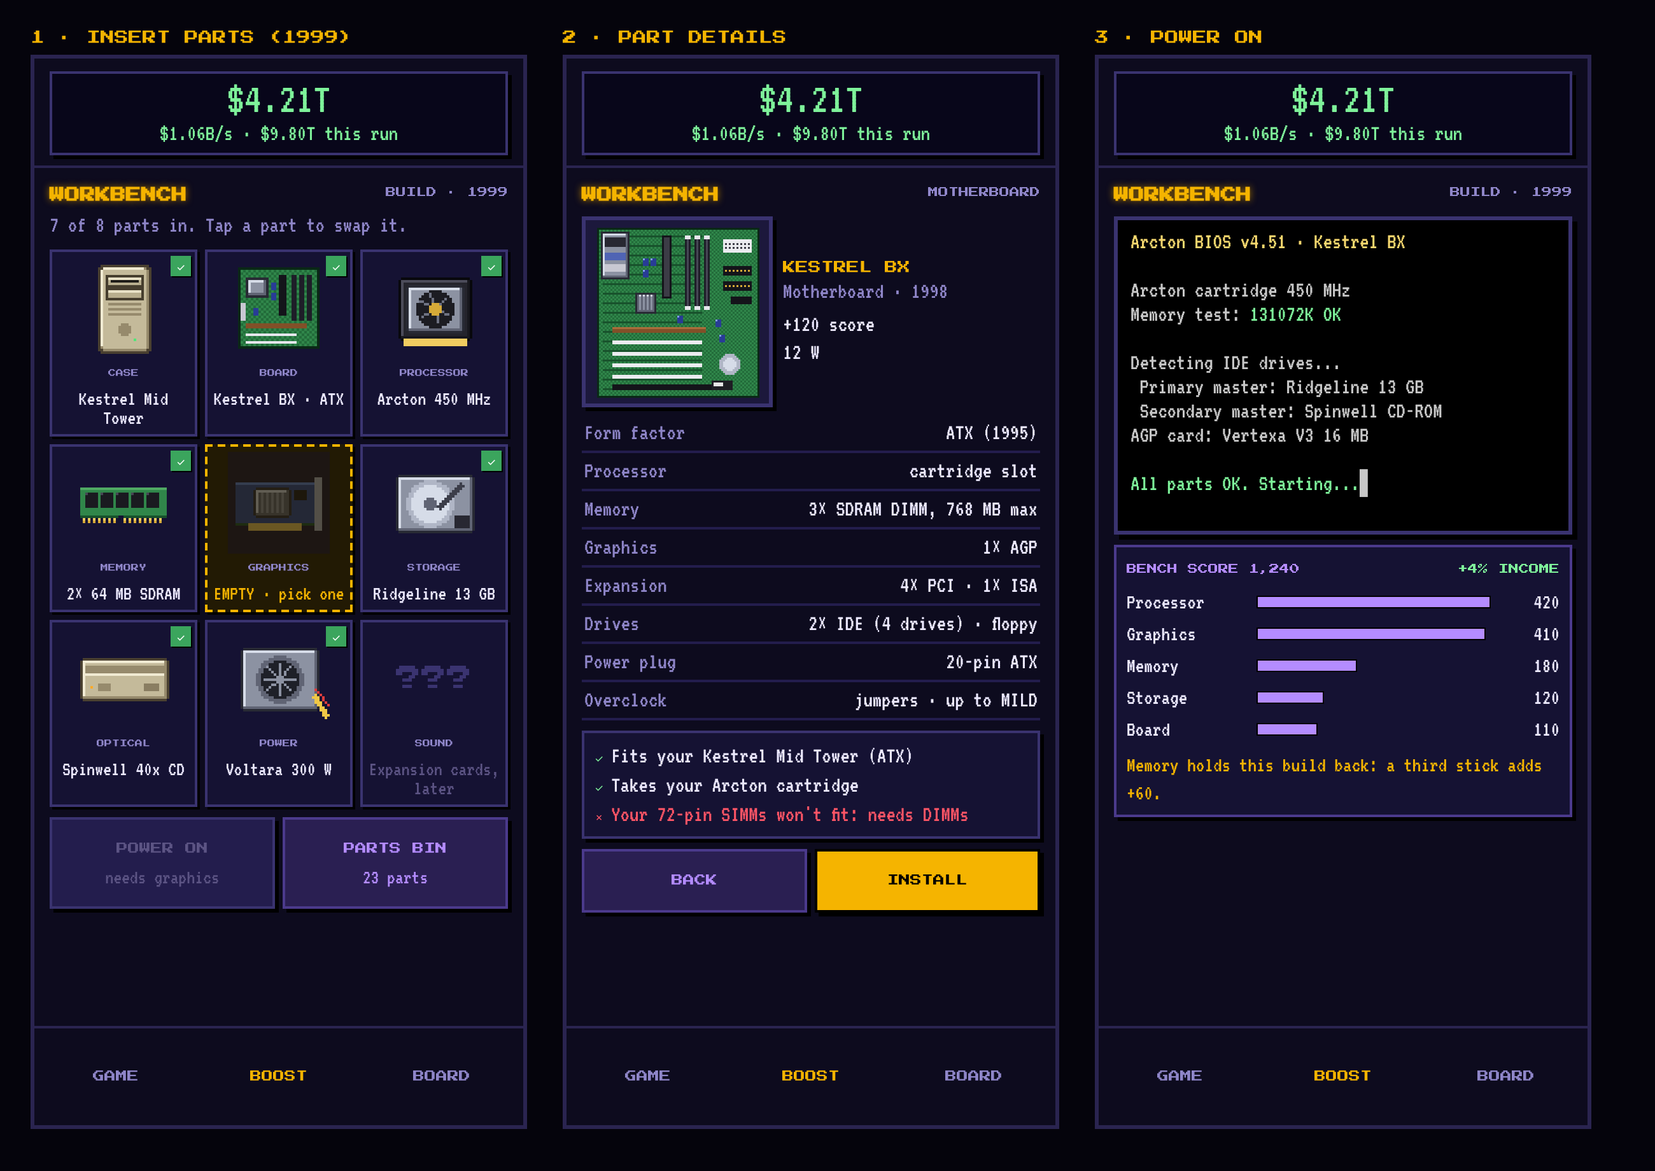
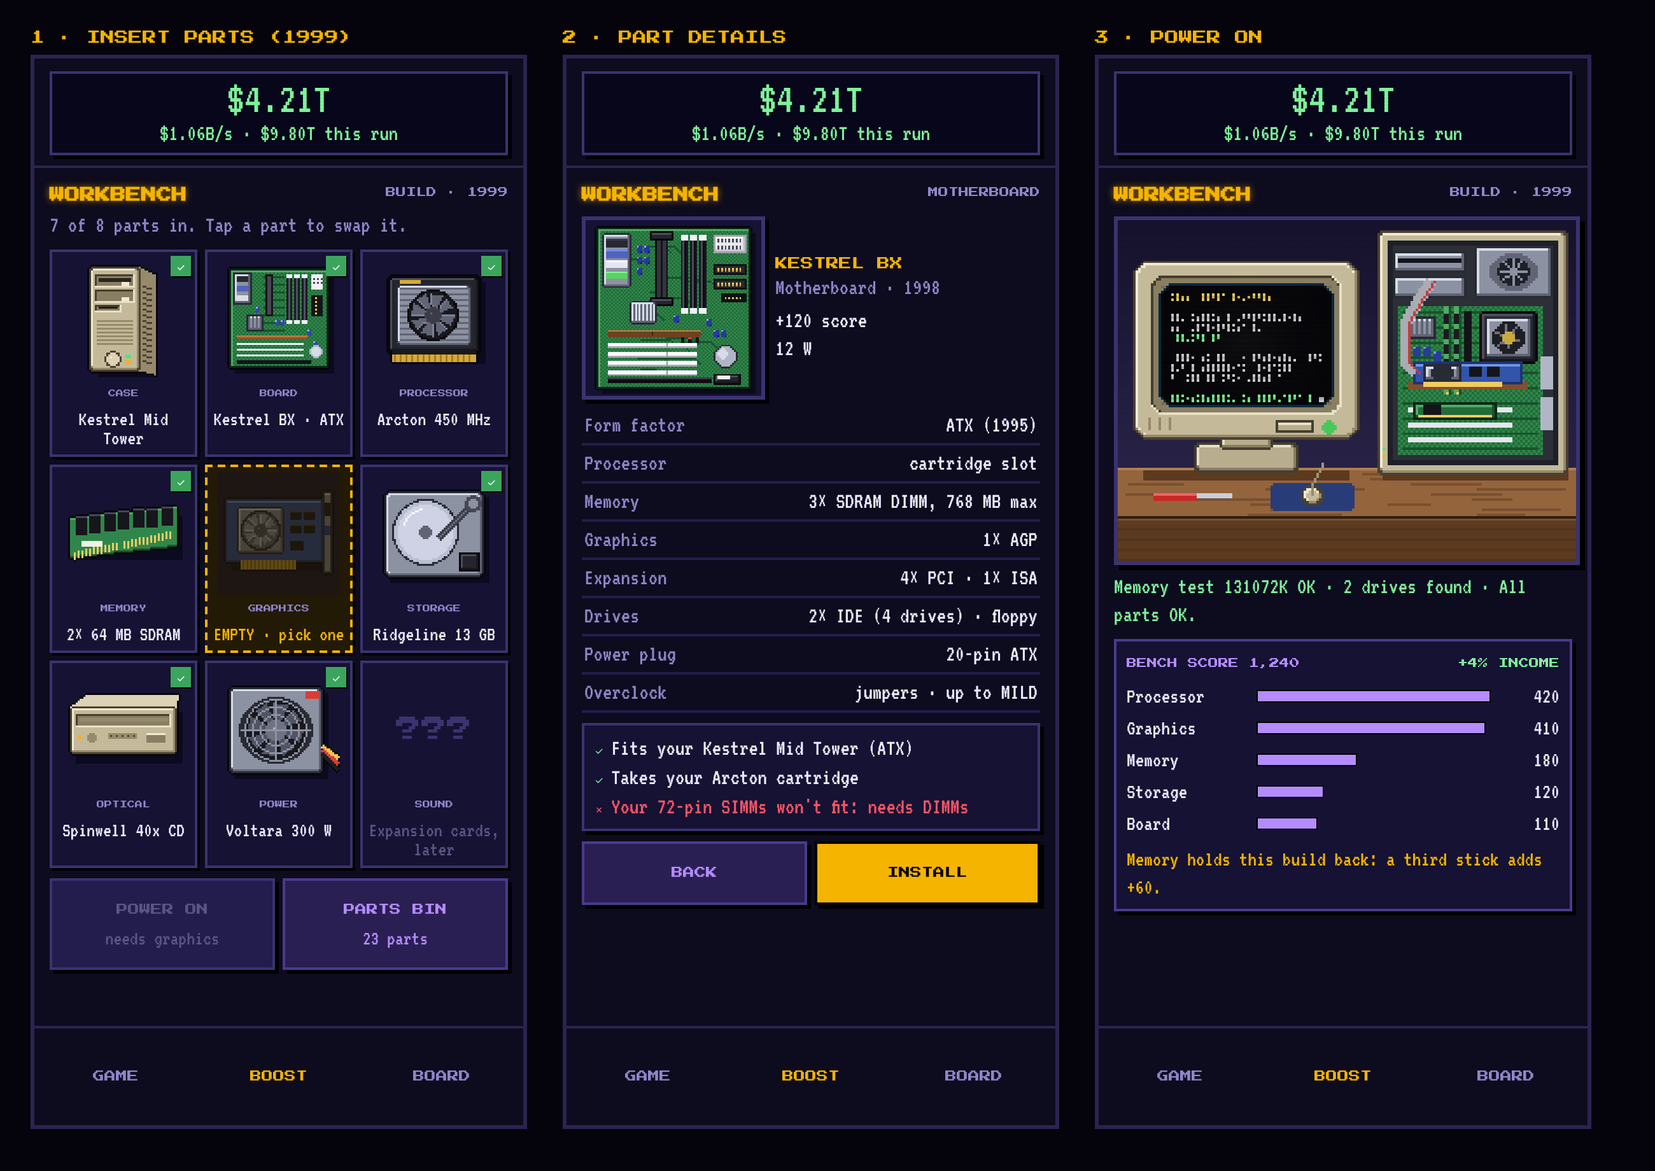
Workbench parts-grid mock-ups: redrawn part art, boot scene
Claude-Session: https://claude.ai/code/session_01NUTBnvfrWzCnjTvLXY5ZsZ

Changed region(s): [[0.6542, 0.1859, 0.9658, 0.8054], [0.0312, 0.2168, 0.3115, 0.8364], [0.3427, 0.1859, 0.6231, 0.8054]]

diff --git a/docs/art/workbench/parts2.py b/docs/art/workbench/parts2.py
@@ -1,0 +1,119 @@
+exec(open("px.py").read())
+CARD=(21,18,51); SHD=(12,10,30)
+def ic(n=64):
+    im=Image.new("RGB",(n,n),CARD); return im,ImageDraw.Draw(im)
+def drop(d,x0,y0,x1,y1): d.rectangle((x0+3,y0+3,x1+3,y1+3),fill=SHD)
+def out(im,name): im.save(f"q_{name}.png")
+def outline_obj(im):
+    px=im.load(); w,h=im.size; src=im.copy().load()
+    for y in range(h):
+        for x in range(w):
+            if src[x,y] in (CARD,SHD):
+                for dx,dy in ((1,0),(-1,0),(0,1),(0,-1)):
+                    xx,yy=x+dx,y+dy
+                    if 0<=xx<w and 0<=yy<h and src[xx,yy] not in (CARD,SHD,(6,6,14)):
+                        px[x,y]=(6,6,14); break
+def fan(d,cx,cy,r,ramp="dark",blade=(96,100,116),hub=(60,60,72)):
+    R=RAMPS[ramp]; d.ellipse((cx-r,cy-r,cx+r,cy+r),fill=R[0]); d.ellipse((cx-r+1,cy-r+1,cx+r-1,cy+r-1),fill=R[1])
+    for a in range(0,360,45):
+        a1=math.radians(a); a2=math.radians(a+28)
+        d.polygon([(cx,cy),(cx+(r-2)*math.cos(a1),cy+(r-2)*math.sin(a1)),(cx+(r-2)*math.cos(a2),cy+(r-2)*math.sin(a2))],fill=blade)
+        d.line((cx,cy,cx+(r-2)*math.cos(a1),cy+(r-2)*math.sin(a1)),fill=sh(blade,1.3))
+    d.ellipse((cx-r//3,cy-r//3,cx+r//3,cy+r//3),fill=hub); d.point((cx-1,cy-1),sh(hub,1.6))
+# ---- case: beige mid tower, 3/4 view
+im,d=ic(); drop(d,16,5,46,59)
+d.polygon([(40,5),(48,9),(48,61),(40,59)],fill=RAMPS["beige"][1])          # side
+for y in range(14,56,3): d.line((42,y+1,46,y+2),fill=RAMPS["beige"][0])
+bevel(d,14,5,40,59,"beige",2)
+for i,y in enumerate((9,17)):
+    inset(d,17,y,37,y+6,"beige2"); d.rectangle((19,y+2,35,y+3),fill=(40,36,30) if i==0 else RAMPS["beige2"][1]); d.rectangle((31,y+4,34,y+5),fill=RAMPS["beige"][4])
+inset(d,17,25,30,28,"beige2"); d.rectangle((19,26,28,26),fill=(30,28,24))
+for y in range(33,47,2): d.line((18,y,36,y),fill=RAMPS["beige"][1])
+d.ellipse((22,49,30,57),fill=RAMPS["beige"][0]); d.ellipse((23,50,29,56),fill=RAMPS["beige"][3]); d.point((25,52),RAMPS["beige"][4])
+d.rectangle((33,51,35,52),fill=(80,230,120)); d.rectangle((33,54,35,55),fill=(255,170,40))
+outline_obj(im); out(im,"case")
+# ---- motherboard (top view, slight tilt look via shadow)
+im,d=ic(); drop(d,6,6,57,57)
+d.rectangle((6,6,57,57),fill=RAMPS["pcbg"][0]); d.rectangle((7,7,56,56),fill=RAMPS["pcbg"][2]); dith(d,(7,7,56,56),RAMPS["pcbg"][2],RAMPS["pcbg"][3])
+d.line((7,7,56,7),fill=RAMPS["pcbg"][4]); d.line((7,7,7,56),fill=RAMPS["pcbg"][4])
+for y in range(10,40,4): d.line((24,y,34,y),fill=RAMPS["pcbg"][1])
+bevel(d,8,8,17,24,"steel",0); d.rectangle((10,10,15,12),fill=(40,40,50)); d.rectangle((10,15,15,17),fill=(80,100,190)); d.rectangle((10,20,15,22),fill=(220,220,230))
+d.rectangle((25,9,28,30),fill=(20,20,26)); d.rectangle((26,10,27,29),fill=(70,70,84))
+for x in (36,40,44): d.rectangle((x,9,x+2,34),fill=(26,26,34)); d.line((x+1,10,x+1,33),fill=(80,80,96)); d.rectangle((x,9,x+2,10),fill=(240,240,246)); d.rectangle((x,33,x+2,34),fill=(240,240,246))
+d.rectangle((49,9,54,16),fill=(240,240,246)); [d.point((50+i%3*2,11+i//3*2),(70,70,80)) for i in range(6)]
+d.rectangle((49,20,54,30),fill=(20,20,26)); [d.point((51,y),RAMPS["gold"][3]) for y in range(21,30,2)]
+bevel(d,15,30,23,38,"steel",0); [d.line((x,31,x,37),fill=RAMPS["steel"][1]) for x in range(16,23,2)]
+d.rectangle((10,41,46,42),fill=(140,86,42)); d.line((10,41,46,41),fill=(186,120,64))
+for y in (45,48,51): d.rectangle((10,y,44,y),fill=(240,240,246))
+d.rectangle((10,54,48,55),fill=(20,20,26))
+for (x,y) in ((20,26),(30,33),(33,33),(47,38),(50,44)): d.rectangle((x,y,x+1,y+2),fill=(50,70,170)); d.point((x,y),(140,170,250))
+d.ellipse((48,46,54,52),fill=RAMPS["steel"][3]); d.ellipse((49,47,53,51),fill=RAMPS["steel"][4])
+outline_obj(im); out(im,"board")
+# ---- processor cartridge with fan
+im,d=ic(); drop(d,8,10,55,52)
+bevel(d,8,10,55,50,"dark",2); d.rectangle((10,48,53,50),fill=RAMPS["dark"][1])
+bevel(d,12,14,51,46,"steel",2)
+for y in range(16,45,3): d.line((14,y,49,y),fill=RAMPS["steel"][1])
+fan(d,31,30,13,"dark")
+d.rectangle((10,51,53,54),fill=RAMPS["gold"][2]); [d.line((x,51,x,54),fill=RAMPS["gold"][1]) for x in range(11,53,3)]
+d.rectangle((14,12,24,13),fill=(214,170,56))
+outline_obj(im); out(im,"cpu")
+# ---- RAM stick (angled)
+im,d=ic(); drop(d,4,20,59,42)
+d.polygon([(4,24),(59,18),(59,38),(4,44)],fill=RAMPS["pcbg"][3])
+d.line((4,24,59,18),fill=RAMPS["pcbg"][4]); d.line((4,44,59,38),fill=RAMPS["pcbg"][1])
+for i in range(7):
+    x=7+i*7.5; y=23-i*0.8
+    d.rectangle((x,y,x+5,y+9),fill=(22,22,28)); d.line((x,y,x+5,y),fill=(70,70,86))
+for i in range(26):
+    x=6+i*2; y=42-i*0.42
+    d.line((x,y,x,y+3),fill=RAMPS["gold"][3] if i!=12 else RAMPS["pcbg"][3])
+d.rectangle((10,36,20,38),fill=(240,240,230))
+outline_obj(im); out(im,"ram")
+# ---- AGP graphics card (blue pcb, heatsink+fan)
+im,d=ic(); drop(d,4,14,54,48)
+d.rectangle((4,14,54,46),fill=(30,50,120)); d.rectangle((5,15,53,45),fill=(44,74,160)); dith(d,(5,15,53,45),(44,74,160),(52,84,172)); d.line((5,15,53,15),fill=(110,150,230))
+bevel(d,10,18,34,42,"steel",1); fan(d,22,30,10,"steel",(150,156,172),(80,84,100))
+for (x,y) in ((38,20),(38,27),(45,20),(45,27)): d.rectangle((x,y,x+5,y+4),fill=(20,20,26)); d.line((x,y,x+5,y),fill=(70,70,84))
+d.rectangle((38,36,44,40),fill=(20,20,26))
+d.rectangle((12,46,40,50),fill=RAMPS["gold"][2]); [d.line((x,46,x,50),fill=RAMPS["gold"][1]) for x in range(13,40,2)]
+bevel(d,55,10,59,52,"steel",0); d.rectangle((56,16,58,22),fill=(20,20,30)); d.rectangle((56,28,58,32),fill=(40,60,160))
+outline_obj(im); out(im,"gpu")
+# ---- hard drive (top, lid off look)
+im,d=ic(); drop(d,6,10,57,54)
+bevel(d,6,10,57,54,"steel",3)
+d.ellipse((10,14,44,48),fill=RAMPS["steel"][0]); d.ellipse((11,15,43,47),fill=(186,190,210))
+d.ellipse((13,17,41,45),fill=(206,210,228)); d.arc((15,19,39,43),200,260,fill=(250,250,255)); d.ellipse((24,28,30,34),fill=RAMPS["steel"][1])
+d.line((52,16,34,34),fill=(60,62,76),width=3); d.line((52,16,34,34),fill=(110,114,130),width=1); d.ellipse((48,12,56,20),fill=(70,72,86)); d.ellipse((50,14,54,18),fill=(140,146,162))
+bevel(d,45,42,55,51,"dark",0)
+outline_obj(im); out(im,"hdd")
+# ---- CD-ROM drive (3/4)
+im,d=ic(); drop(d,4,20,59,46)
+d.polygon([(4,20),(12,14),(60,14),(59,20)],fill=RAMPS["beige"][3])
+bevel(d,4,20,59,44,"beige",1)
+inset(d,7,24,56,30,"beige2"); d.rectangle((9,26,54,27),fill=RAMPS["beige"][1])
+d.rectangle((44,34,53,38),fill=RAMPS["beige2"][1]); d.line((44,34,53,34),fill=RAMPS["beige"][4])
+d.rectangle((8,35,9,36),fill=(255,170,40)); d.ellipse((13,34,17,38),fill=RAMPS["beige"][1])
+d.rectangle((24,34,38,36),fill=RAMPS["beige"][1]); 
+for x in range(25,38,3): d.point((x,35),(80,74,60))
+outline_obj(im); out(im,"cd")
+# ---- PSU
+im,d=ic(); drop(d,6,10,54,54)
+bevel(d,6,10,54,54,"steel",2)
+d.ellipse((11,15,49,49),fill=RAMPS["steel"][0]); d.ellipse((12,16,48,48),fill=(40,42,52))
+fan(d,30,32,16,"dark",(80,84,100),(110,114,130))
+for r in (8,12,16): d.ellipse((30-r,32-r,30+r,32+r),outline=RAMPS["steel"][2])
+d.line((12,32,48,32),fill=RAMPS["steel"][2]); d.line((30,16,30,48),fill=RAMPS["steel"][2])
+d.rectangle((46,12,52,15),fill=(220,60,50)); 
+for k,c in enumerate(((240,200,70),(220,60,60),(30,30,30))): d.line((54,40+k*2,62,46+k*3),fill=c,width=2)
+outline_obj(im); out(im,"psu")
+# ---- sound card
+im,d=ic(); drop(d,4,16,54,46)
+d.rectangle((4,16,54,44),fill=RAMPS["pcbg"][1]); d.rectangle((5,17,53,43),fill=RAMPS["pcbg"][3]); dith(d,(5,17,53,43),RAMPS["pcbg"][3],RAMPS["pcbg"][2]); d.line((5,17,53,17),fill=RAMPS["pcbg"][4])
+bevel(d,9,21,25,35,"dark",0); d.rectangle((11,23,23,25),fill=(200,200,210))
+for (x,y) in ((30,21),(38,21),(30,30)): d.rectangle((x,y,x+5,y+5),fill=(20,20,26))
+for (x,y) in ((44,24),(44,30),(48,36)): d.rectangle((x,y,x+1,y+3),fill=(50,70,170))
+d.rectangle((10,44,38,48),fill=RAMPS["gold"][2]); [d.line((x,44,x,48),fill=RAMPS["gold"][1]) for x in range(11,38,2)]
+bevel(d,55,12,59,50,"steel",0)
+for k,c in enumerate(((90,210,100),(240,130,180),(90,160,240))): d.ellipse((54,18+k*9,59,23+k*9),fill=c); d.point((56,20+k*9),(20,20,20))
+outline_obj(im); out(im,"sound")

diff --git a/docs/art/workbench/mock4.py b/docs/art/workbench/mock4.py
@@ -1,12 +1,12 @@
 exec(open("mock.py").read().split("def phone")[0])
 css2=css+'''
 .grid{display:grid;grid-template-columns:repeat(3,1fr);gap:6px;margin-top:8px}
-.pc{position:relative;border:2px solid #3a3370;background:#151233;text-align:center;padding:4px 3px 5px;box-shadow:2px 2px 0 #000;min-height:122px}
-.pc img{width:80px;height:80px;image-rendering:pixelated;display:block;margin:0 auto}
+.pc{position:relative;border:2px solid #3a3370;background:#151233;text-align:center;padding:4px 3px 5px;box-shadow:2px 2px 0 #000;min-height:138px}
+.pc img{width:96px;height:96px;image-rendering:pixelated;display:block;margin:0 auto}
 .pc .n{font-size:16px;line-height:15px}.pc .s{font-family:P;font-size:6px;color:#8f86c9;display:block;margin-bottom:2px}
 .pc .ok{position:absolute;top:3px;right:3px;width:16px;height:16px;background:#3ba55d;color:#fff;font-family:P;font-size:8px;line-height:16px;box-shadow:1px 1px 0 #000}
 .pc.empty{border:2px dashed #f5b400;background:#221a04;color:#f5b400}.pc.empty img{opacity:.35}
-.pc.lock{color:#5c5484}.pc.lock .q{font-family:P;font-size:20px;line-height:80px;color:#3a3370}
+.pc.lock{color:#5c5484}.pc.lock .q{font-family:P;font-size:20px;line-height:96px;color:#3a3370}
 .row2{display:grid;grid-template-columns:1fr 1fr;gap:6px;margin-top:8px}
 .bigbtn{font-family:P;font-size:9px;text-align:center;padding:12px 4px;border:2px solid #000;box-shadow:3px 3px 0 #000}
 .gold{background:#f5b400;color:#000}.dis{background:#231d4d;color:#5c5484;border-color:#3a3370}.vio{background:#2a1f52;color:#b48cff;border-color:#4b3a8c}
@@ -24,7 +24,7 @@ def shell(cap,body,tag):
 def card(img,slot,name,st=""):
     if st=="lock": return f'<div class="pc lock"><div class="q">???</div><span class="s">{slot}</span><div class="n">{name}</div></div>'
     tick='' if st=="empty" else '<span class="ok">✓</span>'
-    return f'<div class="pc {st}">{tick}<img src="p_{img}.png"><span class="s">{slot}</span><div class="n">{name}</div></div>'
+    return f'<div class="pc {st}">{tick}<img src="q_{img}.png"><span class="s">{slot}</span><div class="n">{name}</div></div>'
 g=''.join([card("case","CASE","Kestrel Mid Tower"),card("board","BOARD","Kestrel BX · ATX"),card("cpu","PROCESSOR","Arcton 450 MHz"),
  card("ram","MEMORY","2× 64 MB SDRAM"),card("gpu","GRAPHICS","EMPTY · pick one","empty"),card("hdd","STORAGE","Ridgeline 13 GB"),
  card("cd","OPTICAL","Spinwell 40x CD"),card("psu","POWER","Voltara 300 W"),card("sound","SOUND","Expansion cards, later","lock")])
@@ -32,14 +32,14 @@ s1=shell("1 · INSERT PARTS (1999)",f'''<div style="font-size:18px;color:#8f86c9
 <div class="row2"><div class="bigbtn dis">POWER ON<br><span style="font-family:T;font-size:16px">needs graphics</span></div><div class="bigbtn vio">PARTS BIN<br><span style="font-family:T;font-size:16px">23 parts</span></div></div>''',"BUILD · 1999")
 specs=[("Form factor","ATX (1995)"),("Processor","cartridge slot"),("Memory","3× SDRAM DIMM, 768 MB max"),("Graphics","1× AGP"),("Expansion","4× PCI · 1× ISA"),("Drives","2× IDE (4 drives) · floppy"),("Power plug","20-pin ATX"),("Overclock","jumpers · up to MILD")]
 sp=''.join(f'<div class="spec"><span>{a}</span><span>{b}</span></div>' for a,b in specs)
-s2=shell("2 · PART DETAILS",f'''<div style="display:flex;gap:8px;margin-top:8px;align-items:center"><img src="p_board_big.png" style="width:150px;height:150px;image-rendering:pixelated;border:3px solid #3a3370;box-shadow:3px 3px 0 #000">
+s2=shell("2 · PART DETAILS",f'''<div style="display:flex;gap:8px;margin-top:8px;align-items:center"><img src="q_board_big.png" style="width:144px;height:144px;image-rendering:pixelated;border:3px solid #3a3370;box-shadow:3px 3px 0 #000">
 <div><div style="font-family:P;font-size:10px;line-height:15px;color:#f5b400">KESTREL BX</div><div style="font-size:18px;color:#8f86c9">Motherboard · 1998</div><div style="font-size:18px;margin-top:4px">+120 score<br>12 W</div></div></div>
 <div style="margin-top:6px">{sp}</div>
 <div class="score" style="border-color:#3a3370"><div class="fit"><b style="color:#7ef29a">✓</b>Fits your Kestrel Mid Tower (ATX)</div><div class="fit"><b style="color:#7ef29a">✓</b>Takes your Arcton cartridge</div><div class="fit" style="color:#ff5566"><b>✗</b>Your 72-pin SIMMs won't fit: needs DIMMs</div></div>
 <div class="row2"><div class="bigbtn vio">BACK</div><div class="bigbtn gold">INSTALL</div></div>''',"MOTHERBOARD")
 bars=[("Processor",420,100),("Graphics",410,98),("Memory",180,43),("Storage",120,29),("Board",110,26)]
 br=''.join(f'<div><span>{a}</span><i style="width:{w}%"></i><span style="text-align:right">{v}</span></div>' for a,v,w in bars)
-s3=shell("3 · POWER ON",f'''<div class="boot"><span class="y">Arcton BIOS v4.51 · Kestrel BX</span><br><br>Arcton cartridge 450 MHz<br>Memory test: <span class="g">131072K OK</span><br><br>Detecting IDE drives...<br>&nbsp;Primary master: Ridgeline 13 GB<br>&nbsp;Secondary master: Spinwell CD-ROM<br>AGP card: Vertexa V3 16 MB<br><br><span class="g">All parts OK. Starting...</span>▌</div>
+s3=shell("3 · POWER ON",f'''<img class="scene" src="sB_boot.png"><div style="font-size:18px;margin-top:6px;color:#7ef29a">Memory test 131072K OK · 2 drives found · All parts OK.</div>
 <div class="score"><div style="display:flex;justify-content:space-between"><span class="t">BENCH SCORE 1,240</span><span class="t" style="color:#7ef29a">+4% INCOME</span></div><div class="bars" style="margin-top:4px">{br}</div>
 <div style="font-size:17px;color:#f5b400;margin-top:6px">Memory holds this build back: a third stick adds +60.</div></div>''',"BUILD · 1999")
-open("mock2.html","w").write(f"<html><head><style>{css2}</style></head><body>{s1}{s2}{s3}</body></html>")
+open("mock4.html","w").write(f"<html><head><style>{css2}</style></head><body>{s1}{s2}{s3}</body></html>")

diff --git a/docs/art/workbench/sB_boot.py b/docs/art/workbench/sB_boot.py
@@ -1,0 +1,80 @@
+exec(open("px.py").read())
+im,d=new(); room(d,(22,18,44),(40,34,70),"wood",98)
+# CRT monitor
+d.rectangle((10,99,90,102),fill=RAMPS["wood"][1])
+bevel(d,30,88,70,99,"beige2",2); bevel(d,40,84,60,90,"beige2",1)
+bevel(d,6,16,94,86,"beige",6)
+for x in (12,16,20): d.line((x,78,x,82),fill=RAMPS["beige"][1])
+inset(d,13,22,87,76,"beige2",5)
+d.rounded_rectangle((16,25,84,73),6,fill=(10,40,60))
+d.rounded_rectangle((17,26,83,72),5,fill=(30,110,130))
+d.rounded_rectangle((17,26,83,72),5,fill=(6,6,10))
+random.seed(11)
+rows=[(232,200,90,20),(0,0,0,0),(200,200,205,26),(200,200,205,18),(120,240,140,10),(0,0,0,0),(200,200,205,30),(200,200,205,24),(200,200,205,22),(0,0,0,0),(120,240,140,28)]
+for j,(r_,g_,b_,n) in enumerate(rows):
+    x=21
+    for k in range(n):
+        if random.random()<0.82:
+            for m in range(3):
+                if random.random()<0.75: d.point((x,29+j*4+m),(r_,g_,b_))
+        x+=2
+d.rectangle((79,70,80,71),fill=(200,200,205))
+glowc(im,50,48,44,(200,200,160),0.05); scan(d,(17,26,83,72),0.86)
+
+d.ellipse((80,79,85,84),fill=(70,200,90)); bevel(d,62,79,76,83,"beige2",0)
+# mouse + pad
+d.rounded_rectangle((60,104,92,114),2,fill=(40,60,120)); bevel(d,72,105,80,112,"beige",3); d.line((76,105,76,108),fill=RAMPS["beige"][1])
+d.line((76,104,80,96),fill=(160,150,120))
+# screwdriver
+d.rectangle((14,108,30,110),fill=(200,40,40)); d.line((14,108,30,108),fill=(240,100,100)); d.rectangle((31,108,44,109),fill=(200,206,220))
+# --- tower, side panel off ---
+d.rectangle((104,99,176,102),fill=RAMPS["wood"][1])
+bevel(d,102,4,176,100,"beige",2)
+d.rectangle((106,8,172,96),fill=(30,32,40))          # chassis interior
+d.rectangle((108,10,170,94),fill=(44,46,56))
+# PSU top
+bevel(d,140,10,170,30,"steel",1)
+for i in range(4): d.ellipse((146+i*0,13,164,27),outline=RAMPS["steel"][1]) if i==0 else None
+d.ellipse((147,13,163,27),fill=RAMPS["steel"][1]); d.ellipse((149,15,161,25),fill=(30,32,40))
+for a in range(0,360,45): d.line((155,20,155+5*math.cos(math.radians(a)),20+5*math.sin(math.radians(a))),fill=RAMPS["steel"][2])
+# drive bays front (left side of tower interior as seen)
+for j,y in enumerate((12,22)):
+    bevel(d,108,y,136,y+8,"steel",0)
+d.rectangle((110,15,134,16),fill=(20,20,26))
+# motherboard
+d.rectangle((110,34,166,92),fill=RAMPS["pcbg"][2])
+dith(d,(110,34,166,92),RAMPS["pcbg"][2],RAMPS["pcbg"][3])
+for y in range(36,92,6): d.line((112,y,164,y),fill=RAMPS["pcbg"][1])
+# cpu cartridge (vertical) with fan
+bevel(d,142,36,164,56,"dark",1); bevel(d,144,38,162,54,"steel",1)
+d.ellipse((147,40,159,52),fill=(30,30,36)); 
+for a in range(0,360,60): d.line((153,46,153+5*math.cos(math.radians(a+20)),46+5*math.sin(math.radians(a+20))),fill=(110,114,130))
+d.ellipse((151,44,155,48),fill=(200,170,60))
+# RAM: two filled + one empty
+for k,x in enumerate((128,132,136)):
+    d.rectangle((x,36,x+2,66),fill=(20,20,24))
+    if k<2:
+        d.rectangle((x,34,x+2,68),fill=RAMPS["pcbg"][4]); d.line((x+2,34,x+2,68),fill=RAMPS["pcbg"][1])
+        for y in range(37,66,6): d.rectangle((x,y,x+1,y+3),fill=(26,26,32))
+        d.point((x+1,68),RAMPS["gold"][3])
+# chipset heatsink
+bevel(d,114,38,124,46,"steel",0); 
+for x in range(115,124,2): d.line((x,39,x,45),fill=RAMPS["steel"][1])
+# capacitors
+for (x,y) in ((116,50),(120,50),(124,52),(140,60)):
+    d.rectangle((x,y,x+2,y+3),fill=(40,60,150)); d.point((x,y),(120,150,230))
+d.rectangle((114,64,160,66),fill=(130,80,40))
+d.rectangle((116,56,158,64),fill=(30,50,120)); d.rectangle((117,57,157,63),fill=(50,84,170)); d.line((117,57,157,57),fill=(110,150,230))
+bevel(d,120,57,134,63,"steel",0); d.ellipse((123,57,131,63),fill=(40,42,52))
+d.rectangle((138,58,142,61),fill=(20,20,26)); d.rectangle((145,58,149,61),fill=(20,20,26)); d.rectangle((120,64,150,65),fill=RAMPS["gold"][3])
+d.rectangle((166,54,170,66),fill=RAMPS["steel"][3])
+# PCI slots + a card
+for y in (74,80,86): d.rectangle((114,y,154,y+1),fill=(230,230,236))
+bevel(d,116,72,148,78,"pcbg",0); d.rectangle((118,77,146,77),fill=RAMPS["gold"][3]); d.rectangle((120,73,126,76),fill=(20,20,26))
+d.rectangle((166,70,170,82),fill=RAMPS["steel"][3])
+# IDE ribbon (grey with red edge)
+pts=[(122,24),(118,30),(112,40),(112,56),(116,60)]
+d.line(pts,fill=(170,172,180),width=4); d.line([(x+2,y) for x,y in pts],fill=(200,60,60),width=1)
+# LEDs on front edge
+d.point((104,90),(80,230,120)); d.point((104,93),(255,170,40))
+save(im,"sB_boot")

diff --git a/docs/art/workbench/bigboard.py b/docs/art/workbench/bigboard.py
@@ -1,0 +1,43 @@
+exec(open("parts2.py").read().split("# ---- case")[0])
+im,d=ic(96); drop(d,6,4,89,91)
+d.rectangle((6,4,89,91),fill=RAMPS["pcbg"][0]); d.rectangle((7,5,88,90),fill=RAMPS["pcbg"][2]); dith(d,(7,5,88,90),RAMPS["pcbg"][2],RAMPS["pcbg"][3])
+d.line((7,5,88,5),fill=RAMPS["pcbg"][4]); d.line((7,5,7,90),fill=RAMPS["pcbg"][4])
+random.seed(2)
+for _ in range(16):
+    x=random.randint(20,60); y=random.randint(10,85); L=random.randint(6,18)
+    d.line((x,y,x+L,y),fill=RAMPS["pcbg"][1]); d.line((x+L,y,x+L+3,y+3),fill=RAMPS["pcbg"][1])
+# rear IO
+bevel(d,9,7,24,36,"steel",1)
+for k,(c,h) in enumerate((((40,40,52),4),((80,100,190),4),((230,230,240),3),((90,210,100),3))):
+    y=10+k*6; d.rectangle((11,y,22,y+h),fill=c); d.line((11,y,22,y),fill=sh(c,1.4))
+# cartridge slot
+d.rectangle((38,8,44,44),fill=(14,14,18)); d.rectangle((39,9,43,43),fill=(52,52,64)); d.line((41,10,41,42),fill=(20,20,26))
+bevel(d,35,6,47,10,"dark",0); bevel(d,35,42,47,46,"dark",0)
+# DIMMs
+for x in (52,57,62):
+    d.rectangle((x,8,x+3,50),fill=(22,22,30)); d.line((x+1,10,x+1,48),fill=(74,74,92)); d.line((x+2,10,x+2,48),fill=(14,14,18))
+    d.rectangle((x,8,x+3,10),fill=(240,240,246)); d.rectangle((x,48,x+3,50),fill=(240,240,246))
+# ATX power
+bevel(d,70,8,87,17,[(160,160,170),(200,200,210),(232,232,238),(244,244,248),(255,255,255)],0)
+for x in range(72,86,2): d.rectangle((x,10,x,11),fill=(70,70,80)); d.rectangle((x,14,x,15),fill=(70,70,80))
+# IDE + floppy
+for y in (24,32):
+    d.rectangle((70,y,87,y+5),fill=(16,16,20)); d.rectangle((71,y+1,86,y+4),fill=(40,40,48))
+    for x in range(72,86,2): d.point((x,y+2),RAMPS["gold"][3]); d.point((x,y+3),RAMPS["gold"][2])
+d.rectangle((74,40,87,44),fill=(16,16,20)); [d.point((x,42),RAMPS["gold"][3]) for x in range(76,86,2)]
+# chipset heatsink
+bevel(d,24,44,38,56,"steel",1)
+for x in range(26,37,2): d.line((x,46,x,54),fill=RAMPS["steel"][1]); d.line((x+1,46,x+1,54),fill=RAMPS["steel"][4])
+# caps
+for (x,y) in ((28,14),(32,14),(28,20),(32,20),(28,26),(48,52),(66,54),(70,60),(74,60)):
+    d.rectangle((x,y,x+2,y+3),fill=(40,56,160)); d.point((x,y),(150,180,255)); d.point((x+2,y+3),(20,30,90))
+# AGP brown, PCI white, ISA black
+d.rectangle((12,60,62,63),fill=(110,66,30)); d.line((12,60,62,60),fill=(196,128,70)); d.line((36,61,36,62),fill=(60,36,16))
+for y in (67,72,77,82): d.rectangle((12,y,60,y+2),fill=(250,250,252)); d.line((12,y+2,60,y+2),fill=(170,170,180)); d.line((44,y,44,y+2),fill=(150,150,160))
+d.rectangle((12,86,68,88),fill=(14,14,18)); d.line((12,86,68,86),fill=(60,60,70))
+# battery + bios
+d.ellipse((70,68,82,80),fill=RAMPS["steel"][0]); d.ellipse((71,69,81,79),fill=RAMPS["steel"][3]); d.ellipse((72,70,77,75),fill=RAMPS["steel"][4])
+bevel(d,70,84,84,89,"dark",0); d.rectangle((72,85,78,86),fill=(240,240,240))
+# jumpers block
+for i in range(3): d.rectangle((52+i*4,64,53+i*4,66),fill=(20,20,26)); d.rectangle((52+i*4,64,53+i*4,64),fill=(220,60,60) if i==1 else (20,20,26))
+outline_obj(im); im.save("q_board_big.png")

diff --git a/docs/art/workbench/README.md b/docs/art/workbench/README.md
@@ -13,7 +13,7 @@ the game. See [PC workbench](../../ideas.md#pc-workbench).
   tick on each installed part and the empty slot outlined in gold; a part
   details page (specs, what fits and what doesn't, BACK / INSTALL); and a
   POWER ON boot screen with the Bench Score split by part and the weakest
-  part named. Drawn by `parts.py` and `mock2.py`.
+  part named. Part art is 64x64 (`parts2.py`, `bigboard.py`); the power-on scene is `sB_boot.py`; the screens are `mock4.py`.
 - All part names are made up (Arcton, Vertexa, Pixelforge, Mainline, Kestrel).
 
 To redraw: `python3 sA.py` (and `sB.py`, `sC.py`) in this folder, needs
